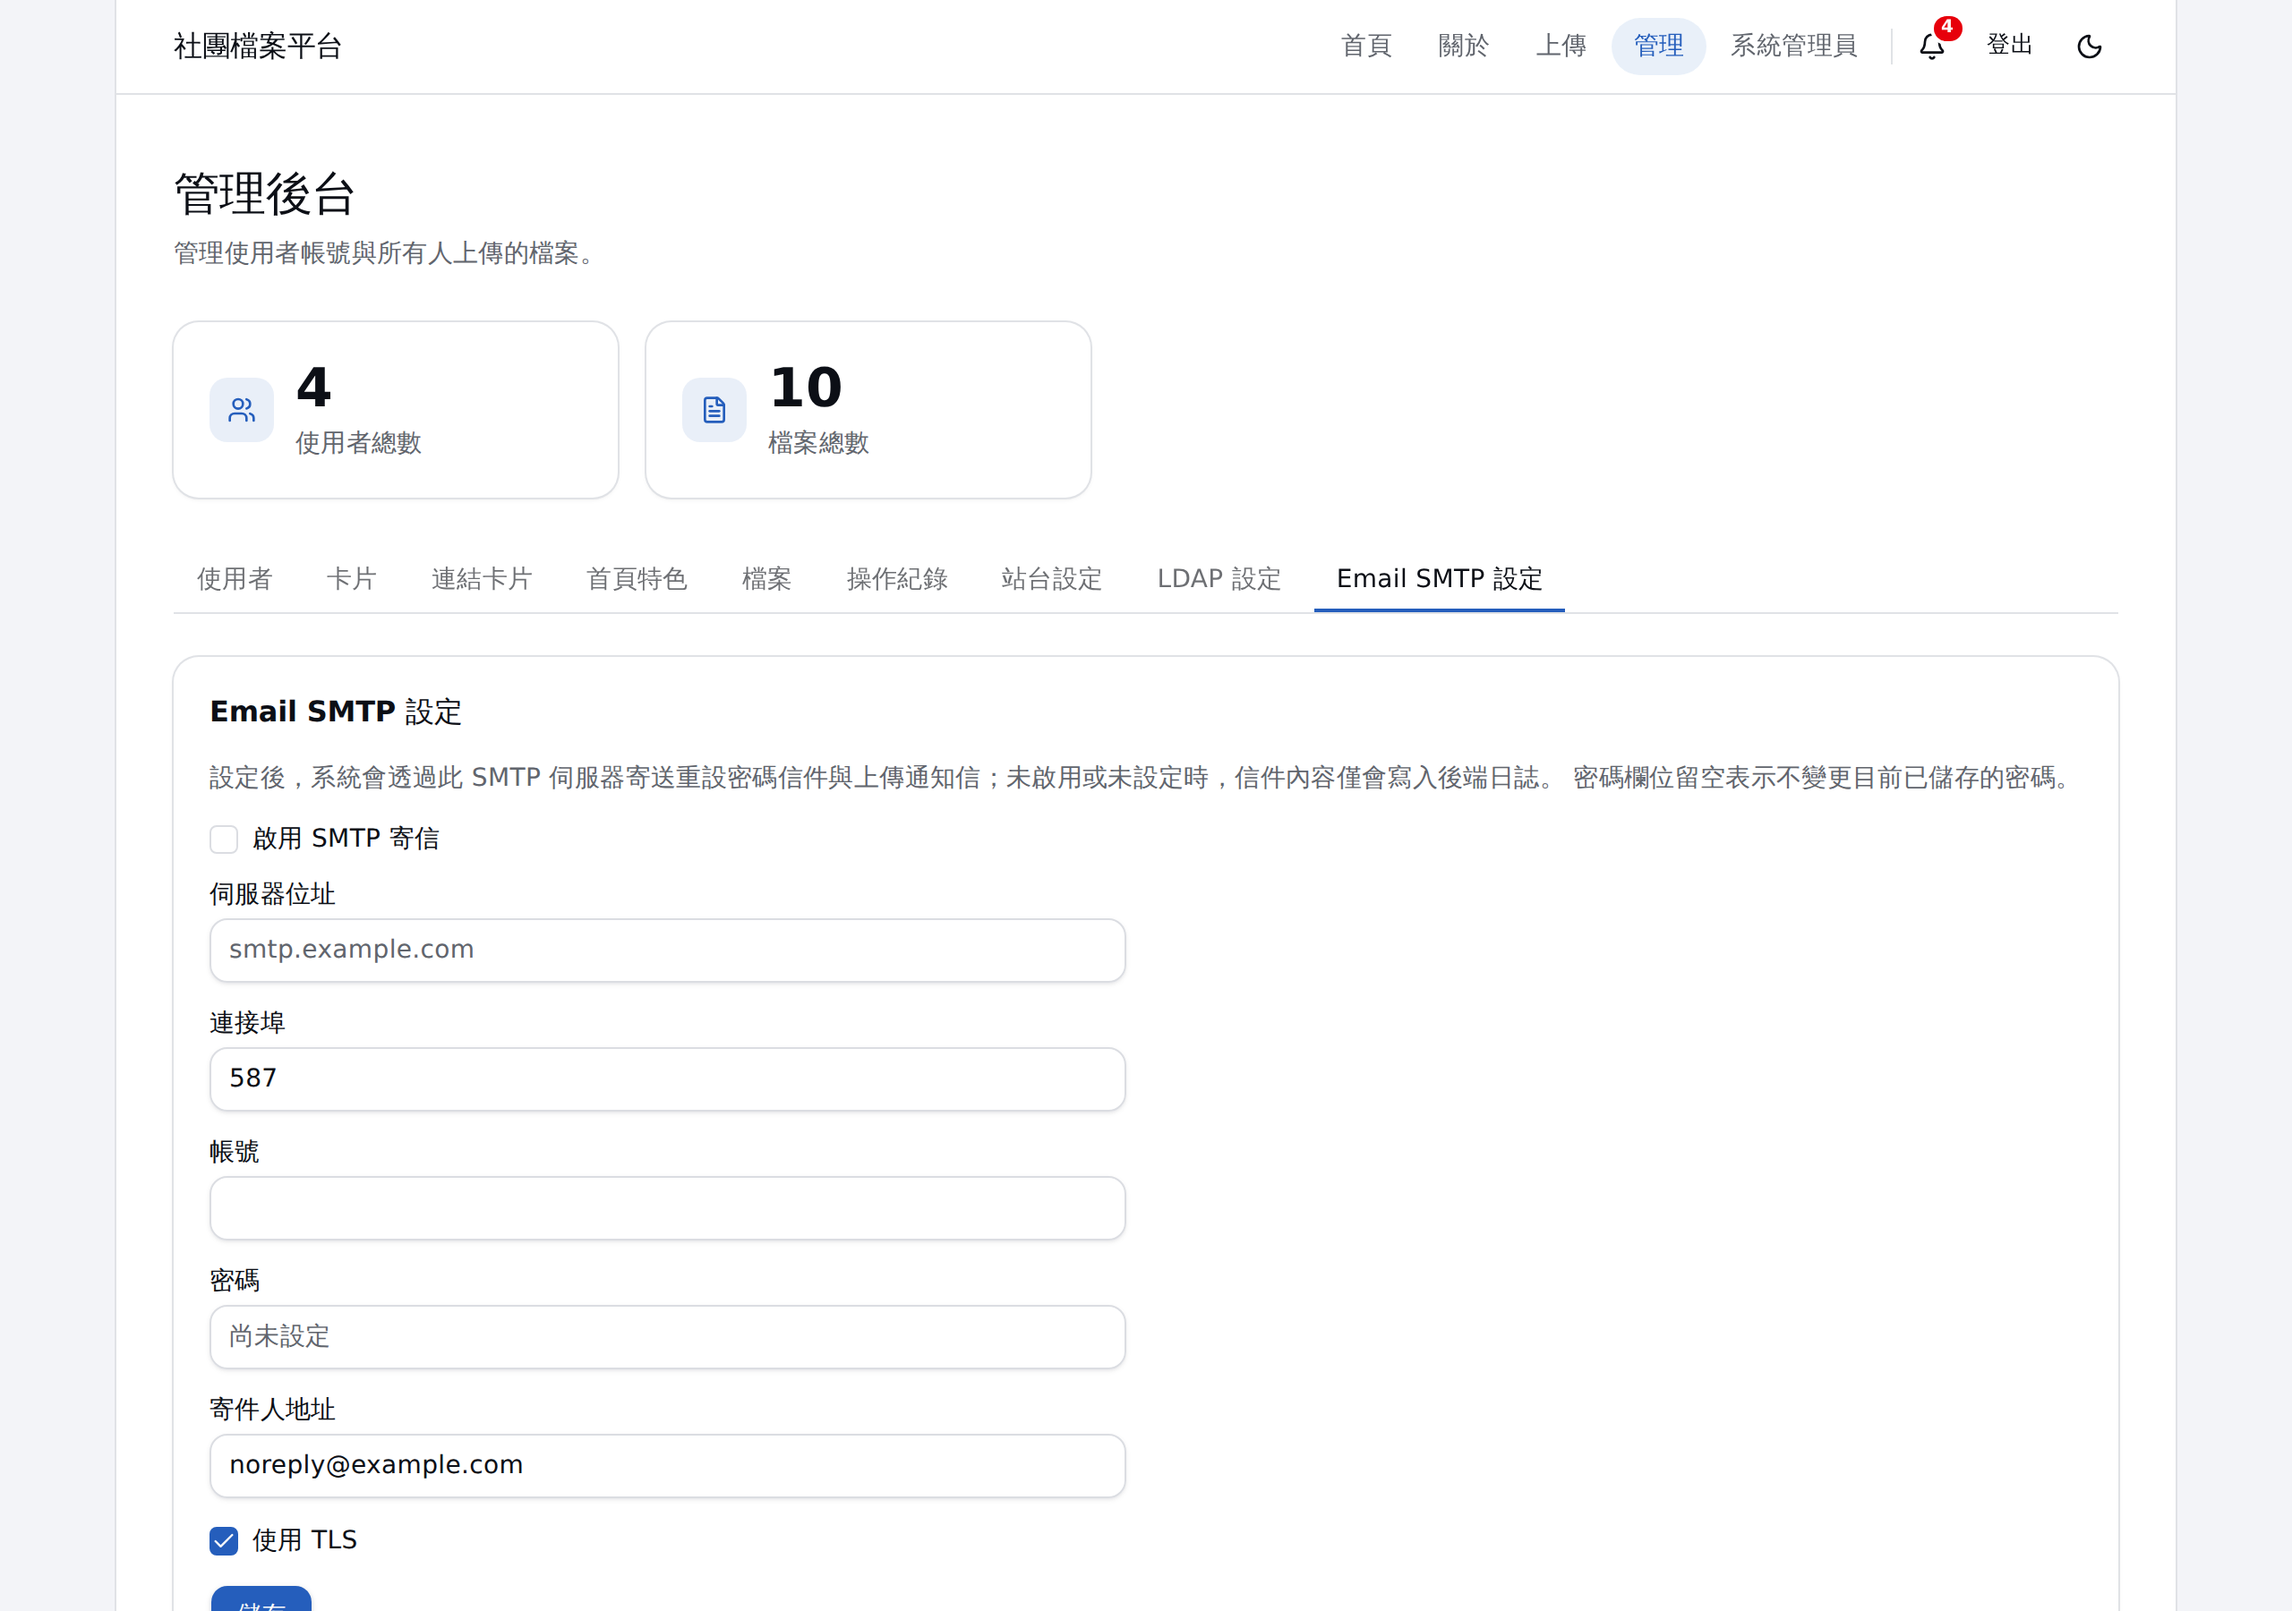
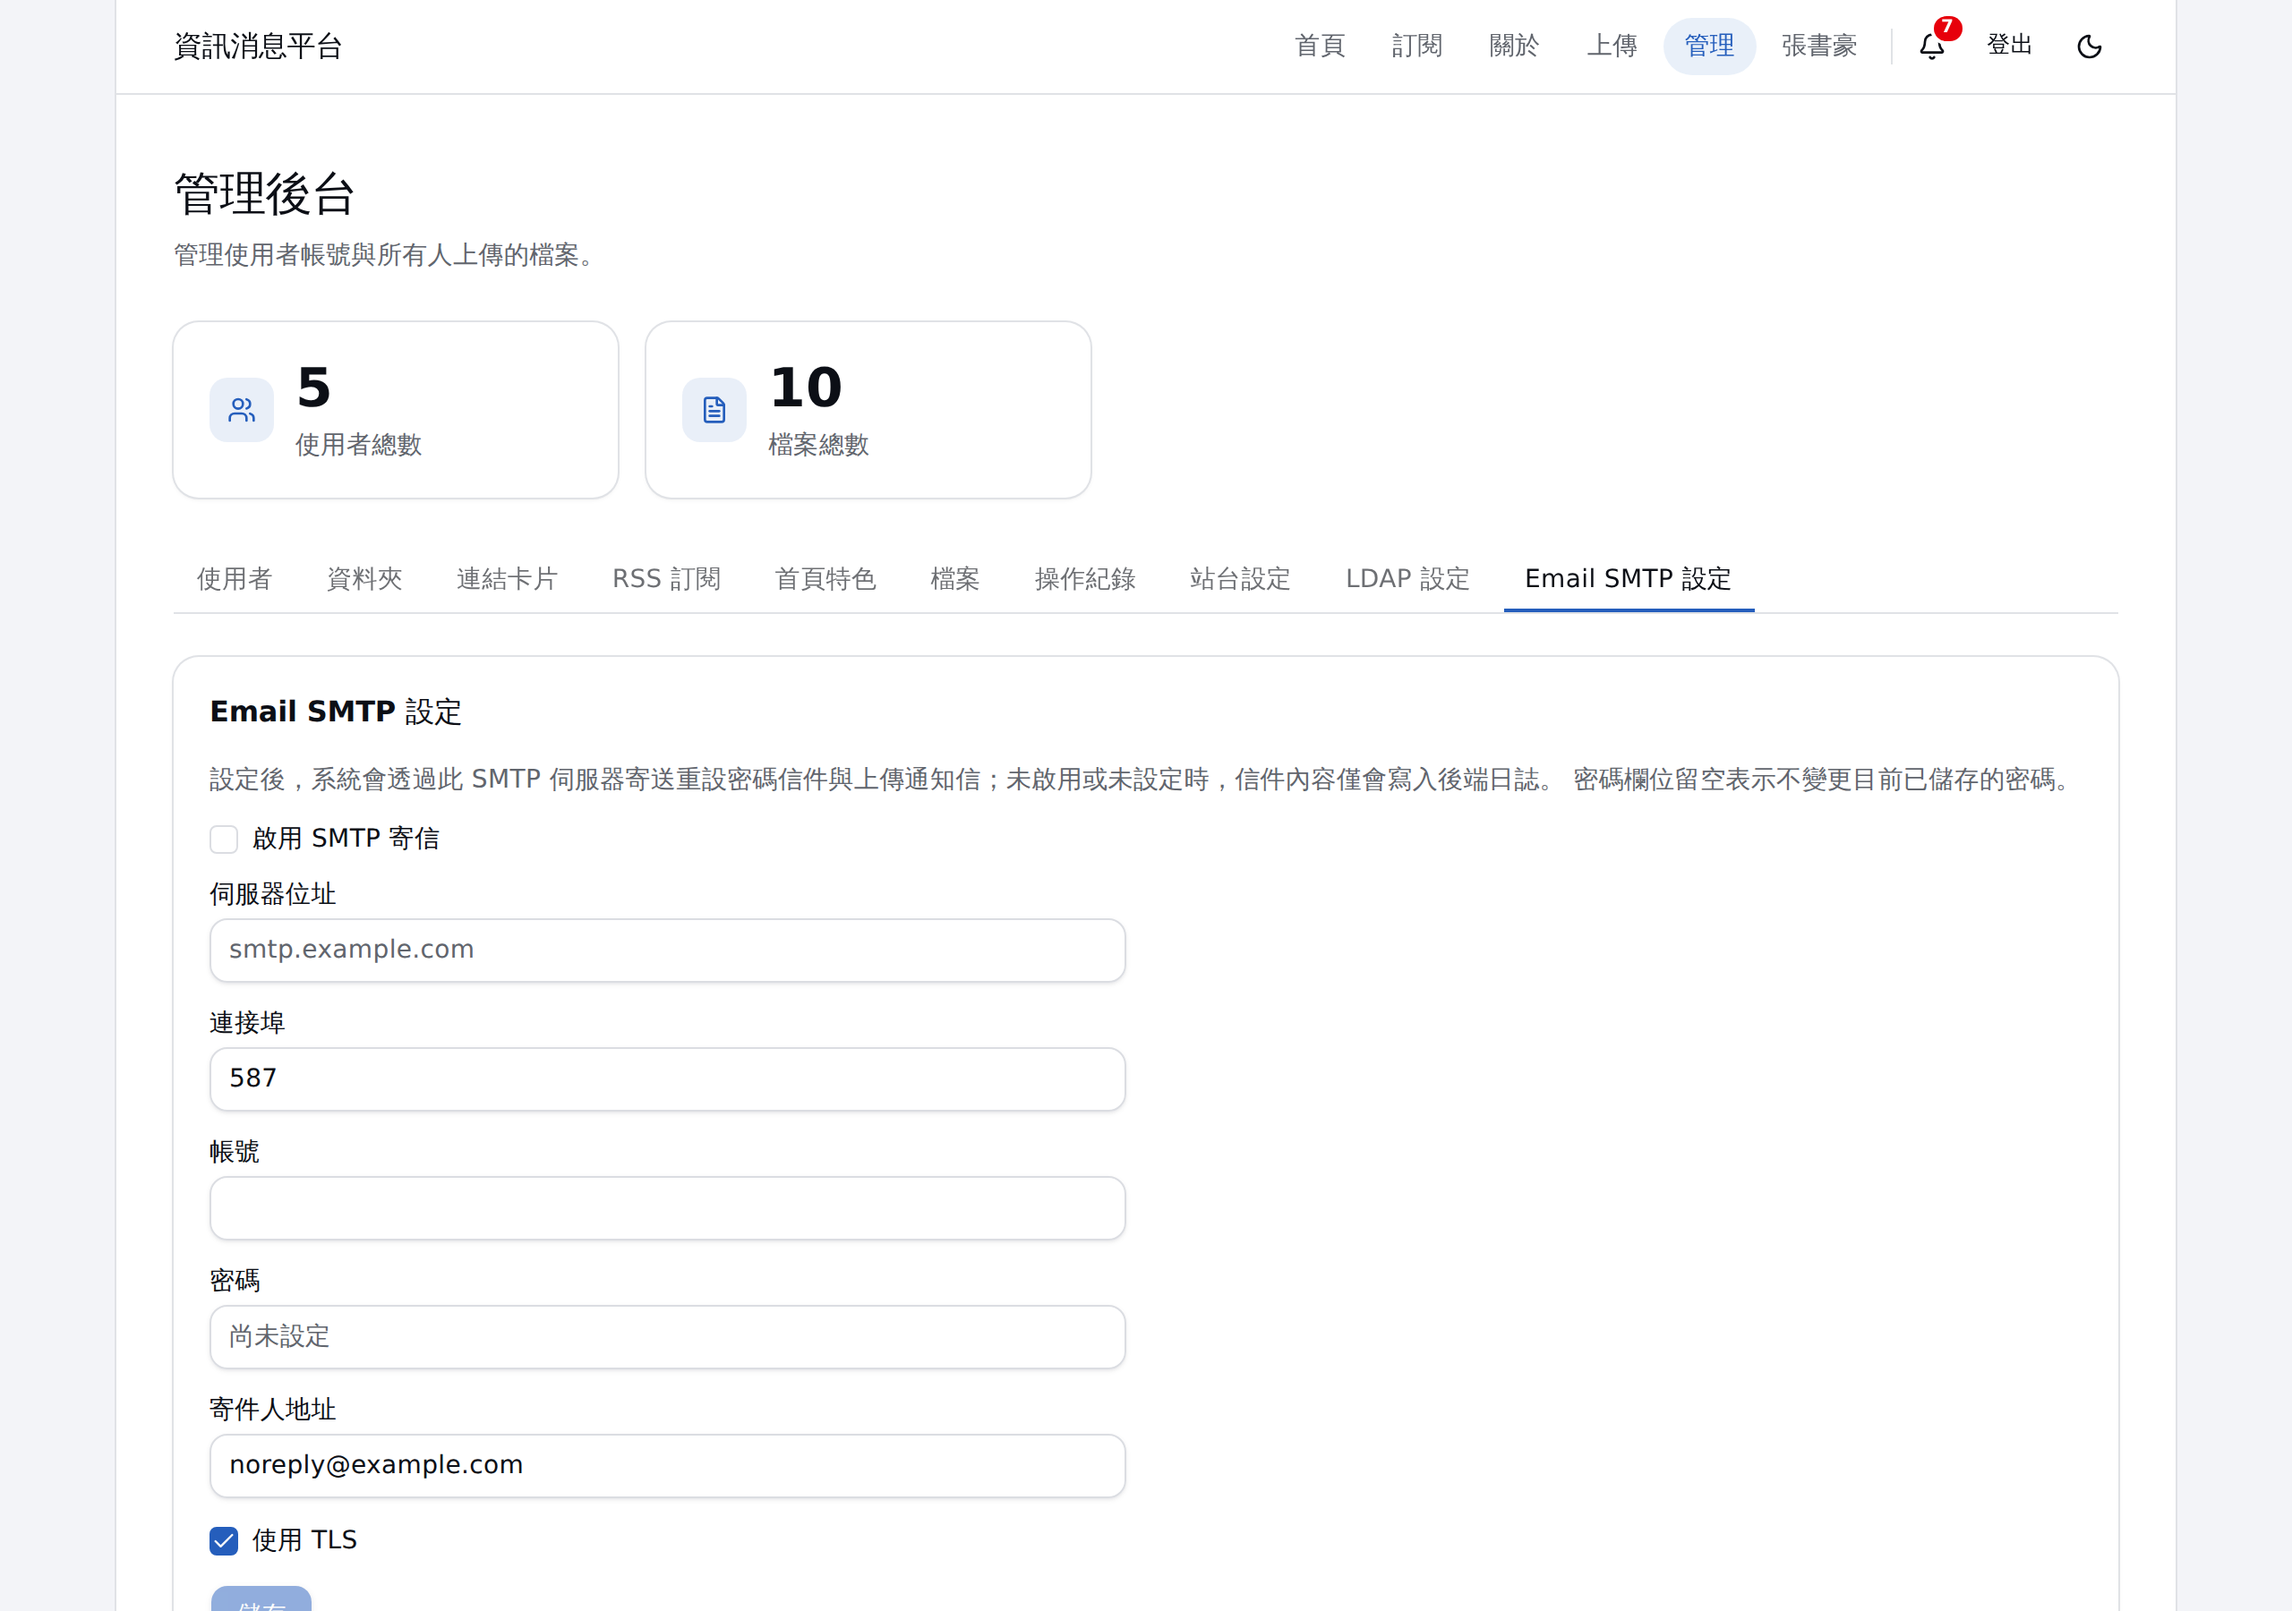
更新 README 畫面截圖，並補上 RSS 訂閱的兩張
原本的截圖拍攝於品牌名稱改為「資訊消息平台」之前，導覽列與首頁標題都還寫著舊的
「社團檔案平台」，而其後新增的 RSS 訂閱功能（`/feeds` 頁面與管理後台的「RSS 訂閱」
分頁）在截圖表中完全沒有出現，看不出平台現在的樣子。

這批截圖是在一個臨時資料庫上灌入示範資料後重拍的，沒有動到任何人的本機開發資料。
尺寸沿用既有的 1280×900 @2x，構圖與原本一致，因此只有內容更新，版面沒有改變。

新增 feeds.png 與 admin-feeds.png 兩張，表格因此由 8 列變成 9 列。
PR #113 那批 `*-dark` 巡檢截圖是當時的驗證紀錄，維持原樣不動。

Claude-Session: https://claude.ai/code/session_01HPQhtxbZdSeJ3zPD4aVg5y

diff --git a/README.md b/README.md
@@ -7,24 +7,26 @@
 
 ## 📸 畫面截圖 (Screenshots)
 
-|                                                       |                                                         |
-| ----------------------------------------------------- | ------------------------------------------------------- |
-| **首頁公開檔案牆**（含檔案依資料夾分組與連結卡片）         | **登入頁**                                               |
-| ![首頁](docs/screenshots/home.png)                     | ![登入頁](docs/screenshots/login.png)                    |
-| **上傳頁**                                             | **管理後台－使用者**                                     |
-| ![上傳頁](docs/screenshots/upload.png)                 | ![管理後台使用者列表](docs/screenshots/admin-users.png)  |
-| **管理後台－資料夾**                                     | **管理後台－連結卡片**                                   |
-| ![管理後台資料夾列表](docs/screenshots/admin-folders.png) | ![管理後台連結卡片列表](docs/screenshots/admin-link-cards.png) |
-| **管理後台－檔案**                                     | **管理後台－操作紀錄**                                   |
-| ![管理後台檔案列表](docs/screenshots/admin-files.png)  | ![管理後台操作紀錄](docs/screenshots/admin-audit-logs.png) |
-| **管理後台－站台設定**                                 | **管理後台－LDAP 設定**                                  |
+|  |  |
+| --- | --- |
+| **首頁公開檔案牆**（含檔案依資料夾分組與連結卡片） | **登入頁** |
+| ![首頁](docs/screenshots/home.png) | ![登入頁](docs/screenshots/login.png) |
+| **訂閱文章頁**（RSS／Atom 來源抓回的最新文章） | **上傳頁** |
+| ![訂閱文章頁](docs/screenshots/feeds.png) | ![上傳頁](docs/screenshots/upload.png) |
+| **管理後台－使用者** | **管理後台－資料夾** |
+| ![管理後台使用者列表](docs/screenshots/admin-users.png) | ![管理後台資料夾列表](docs/screenshots/admin-folders.png) |
+| **管理後台－連結卡片** | **管理後台－RSS 訂閱** |
+| ![管理後台連結卡片列表](docs/screenshots/admin-link-cards.png) | ![管理後台 RSS 訂閱來源](docs/screenshots/admin-feeds.png) |
+| **管理後台－檔案** | **管理後台－操作紀錄** |
+| ![管理後台檔案列表](docs/screenshots/admin-files.png) | ![管理後台操作紀錄](docs/screenshots/admin-audit-logs.png) |
+| **管理後台－站台設定** | **管理後台－LDAP 設定** |
 | ![管理後台站台設定](docs/screenshots/admin-site-settings.png) | ![管理後台 LDAP 設定](docs/screenshots/admin-ldap-settings.png) |
-| **管理後台－Email SMTP 設定**                          | **個人資料頁**                                           |
+| **管理後台－Email SMTP 設定** | **個人資料頁** |
 | ![管理後台 Email SMTP 設定](docs/screenshots/admin-smtp-settings.png) | ![個人資料頁](docs/screenshots/profile.png) |
-| **管理後台－首頁特色**                                 | **通知中心**                                             |
-| ![管理後台首頁特色](docs/screenshots/admin-highlights.png) | ![通知中心](docs/screenshots/notifications.png)       |
-| **首頁（深色模式）**                                   | **管理後台－使用者（深色模式）**                         |
-| ![首頁深色模式](docs/screenshots/home-dark.png)        | ![管理後台使用者列表深色模式](docs/screenshots/admin-users-dark.png) |
+| **管理後台－首頁特色** | **通知中心** |
+| ![管理後台首頁特色](docs/screenshots/admin-highlights.png) | ![通知中心](docs/screenshots/notifications.png) |
+| **首頁（深色模式）** | **管理後台－使用者（深色模式）** |
+| ![首頁深色模式](docs/screenshots/home-dark.png) | ![管理後台使用者列表深色模式](docs/screenshots/admin-users-dark.png) |
 
 ## 🌟 專案特點
 
